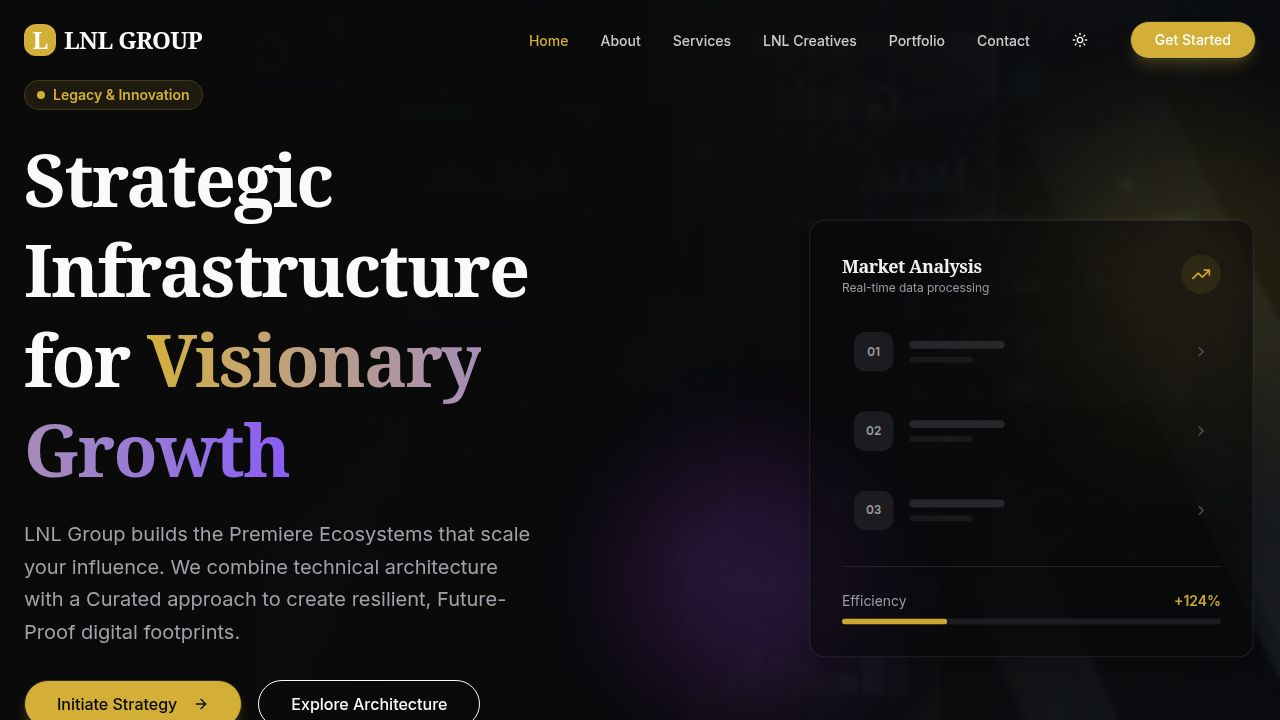
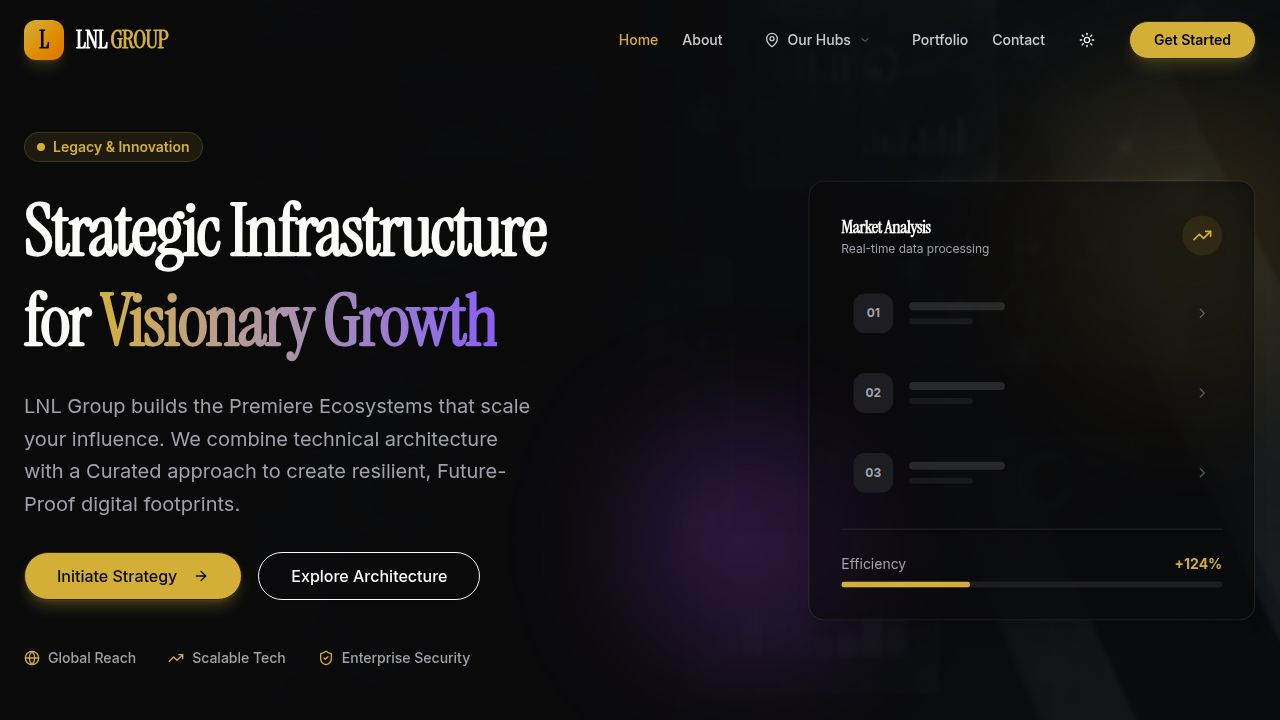
Fix CSS import order for Google Fonts
Move Google Fonts @import statement to the top of index.css to resolve CSS ordering warnings.

Replit-Commit-Author: Agent
Replit-Commit-Session-Id: 804ebe80-f2bb-45b0-8f5d-b73ab4e92bdf
Replit-Commit-Checkpoint-Type: full_checkpoint
Replit-Commit-Event-Id: 9da8c98c-e190-4432-aef4-546f2c97bfc1
Replit-Commit-Screenshot-Url: https://storage.googleapis.com/screenshot-production-us-central1/4cfe9bca-c23f-4b09-bade-94c6298a393d/804ebe80-f2bb-45b0-8f5d-b73ab4e92bdf/jyXFACt
Replit-Helium-Checkpoint-Created: true

diff --git a/client/src/index.css b/client/src/index.css
@@ -1,8 +1,6 @@
+@import url('https://fonts.googleapis.com/css2?family=Instrument+Serif:ital@0;1&family=Inter:wght@100..900&display=swap');
 @import "tailwindcss";
 @import "tw-animate-css";
-
-/* Import Google Fonts */
-@import url('https://fonts.googleapis.com/css2?family=Instrument+Serif:ital@0;1&family=Inter:wght@100..900&display=swap');
 
 @custom-variant dark (&:is(.dark *));
 
